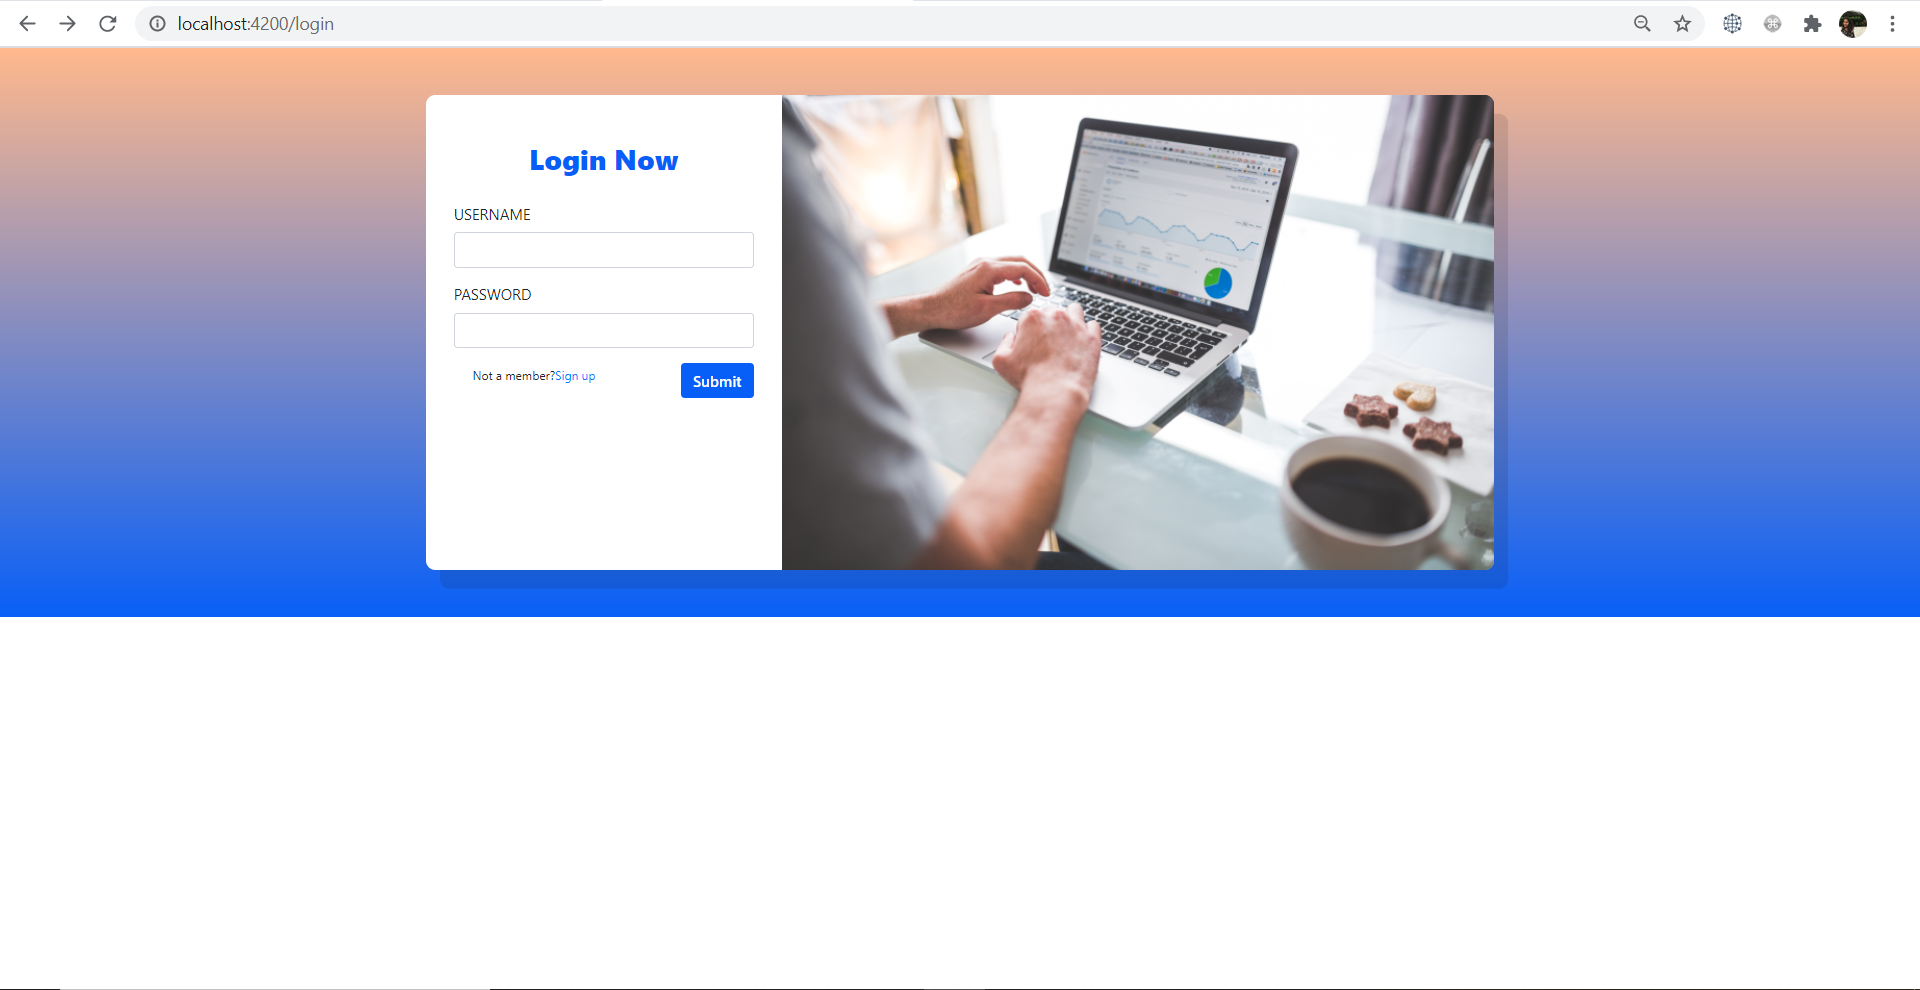
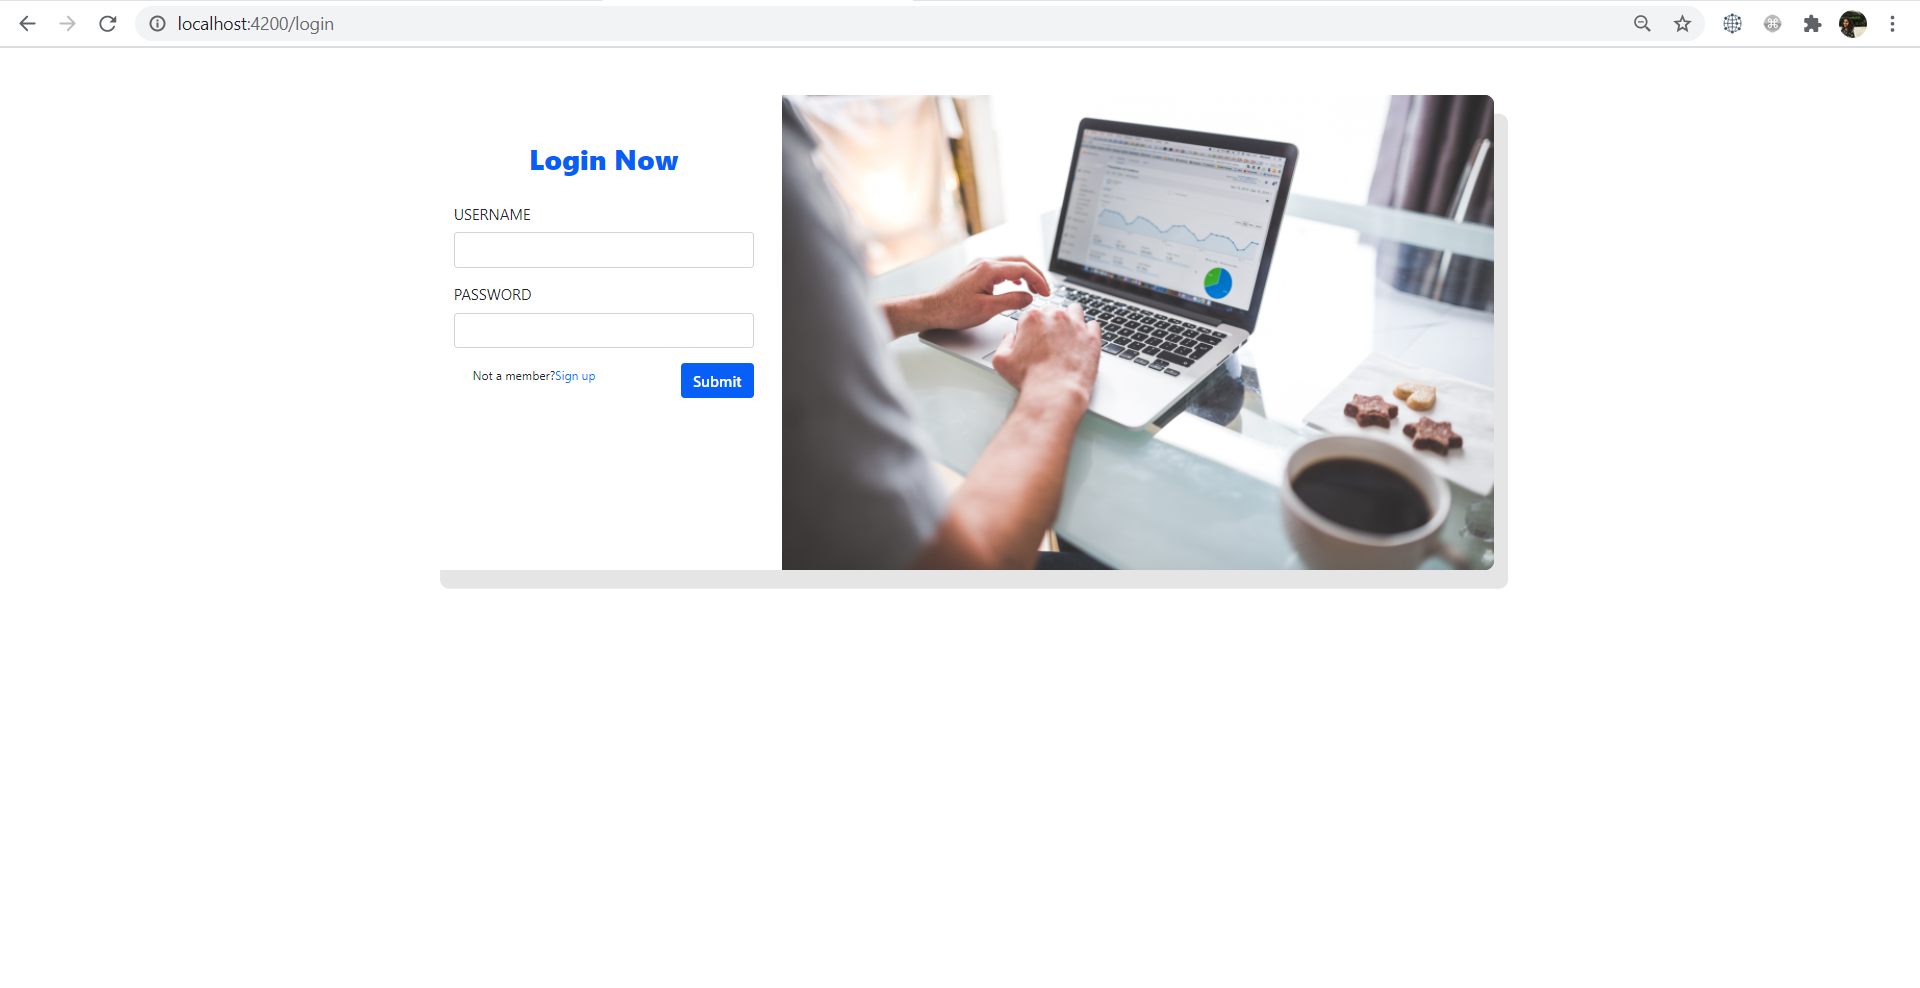
changes
changes

diff --git a/front-end/src/styles.css b/front-end/src/styles.css
@@ -10,9 +10,7 @@ body { margin: 0; font-family: Roboto, "Helvetica Neue", sans-serif; } .mat-tab-
 @import '~material-design-icons/iconfont/material-icons.css';
 @import url("//netdna.bootstrapcdn.com/font-awesome/4.0.3/css/font-awesome.css");
 .login-block{
-    background: #085ff7;  /* fallback for old browsers */
-background: -webkit-linear-gradient(to bottom, #FFB88C, #085ff7);  /* Chrome 10-25, Safari 5.1-6 */
-background: linear-gradient(to bottom, #FFB88C, #085ff7); /* W3C, IE 10+/ Edge, Firefox 16+, Chrome 26+, Opera 12+, Safari 7+ */
+ /* W3C, IE 10+/ Edge, Firefox 16+, Chrome 26+, Opera 12+, Safari 7+ */
 float:left;
 width:100%;
 padding : 50px 0;

diff --git a/front-end/src/app/login/login.component.css b/front-end/src/app/login/login.component.css
@@ -103,9 +103,6 @@
 
 @import url("//netdna.bootstrapcdn.com/font-awesome/4.0.3/css/font-awesome.css");
 .login-block{
-    background: #085ff7;  /* fallback for old browsers */
-background: -webkit-linear-gradient(to bottom, #FFB88C, #085ff7);  /* Chrome 10-25, Safari 5.1-6 */
-background: linear-gradient(to bottom, #FFB88C, #085ff7); /* W3C, IE 10+/ Edge, Firefox 16+, Chrome 26+, Opera 12+, Safari 7+ */
 float:left;
 width:100%;
 padding : 50px 0;

diff --git a/front-end/src/app/register/register.component.css b/front-end/src/app/register/register.component.css
@@ -85,9 +85,6 @@
 
 @import url("//netdna.bootstrapcdn.com/font-awesome/4.0.3/css/font-awesome.css");
 .login-block{
-    background: #085ff7;  /* fallback for old browsers */
-background: -webkit-linear-gradient(to bottom, #FFB88C, #085ff7);  /* Chrome 10-25, Safari 5.1-6 */
-background: linear-gradient(to bottom, #FFB88C, #085ff7); /* W3C, IE 10+/ Edge, Firefox 16+, Chrome 26+, Opera 12+, Safari 7+ */
 float:left;
 width:100%;
 padding : 50px 0;

diff --git a/front-end/src/app/dashboard/dashboard.component.css b/front-end/src/app/dashboard/dashboard.component.css
@@ -14,9 +14,6 @@ h2{
     padding-bottom: 10px;
 }
 .login-block{
-    background: #085ff7;  /* fallback for old browsers */
-background: -webkit-linear-gradient(to bottom, #FFB88C, #085ff7);  /* Chrome 10-25, Safari 5.1-6 */
-background: linear-gradient(to bottom, #FFB88C, #085ff7); /* W3C, IE 10+/ Edge, Firefox 16+, Chrome 26+, Opera 12+, Safari 7+ */
 float:left;
 width:100%;
 padding : 50px 0;

diff --git a/front-end/src/app/jobs/jobs.component.css b/front-end/src/app/jobs/jobs.component.css
@@ -18,9 +18,6 @@ h2{
     font-size:20px;
 }
 .login-block{
-    background: #085ff7;  /* fallback for old browsers */
-background: -webkit-linear-gradient(to bottom, #FFB88C, #085ff7);  /* Chrome 10-25, Safari 5.1-6 */
-background: linear-gradient(to bottom, #FFB88C, #085ff7); /* W3C, IE 10+/ Edge, Firefox 16+, Chrome 26+, Opera 12+, Safari 7+ */
 float:left;
 width:100%;
 padding : 50px 0;

diff --git a/front-end/src/app/dialog/dialog.component.css b/front-end/src/app/dialog/dialog.component.css
@@ -1,7 +1,4 @@
 .login-block{
-    background: #085ff7;  /* fallback for old browsers */
-background: -webkit-linear-gradient(to bottom, #FFB88C, #085ff7);  /* Chrome 10-25, Safari 5.1-6 */
-background: linear-gradient(to bottom, #FFB88C, #085ff7); /* W3C, IE 10+/ Edge, Firefox 16+, Chrome 26+, Opera 12+, Safari 7+ */
 float:left;
 width:100%;
 padding : 50px 0;
